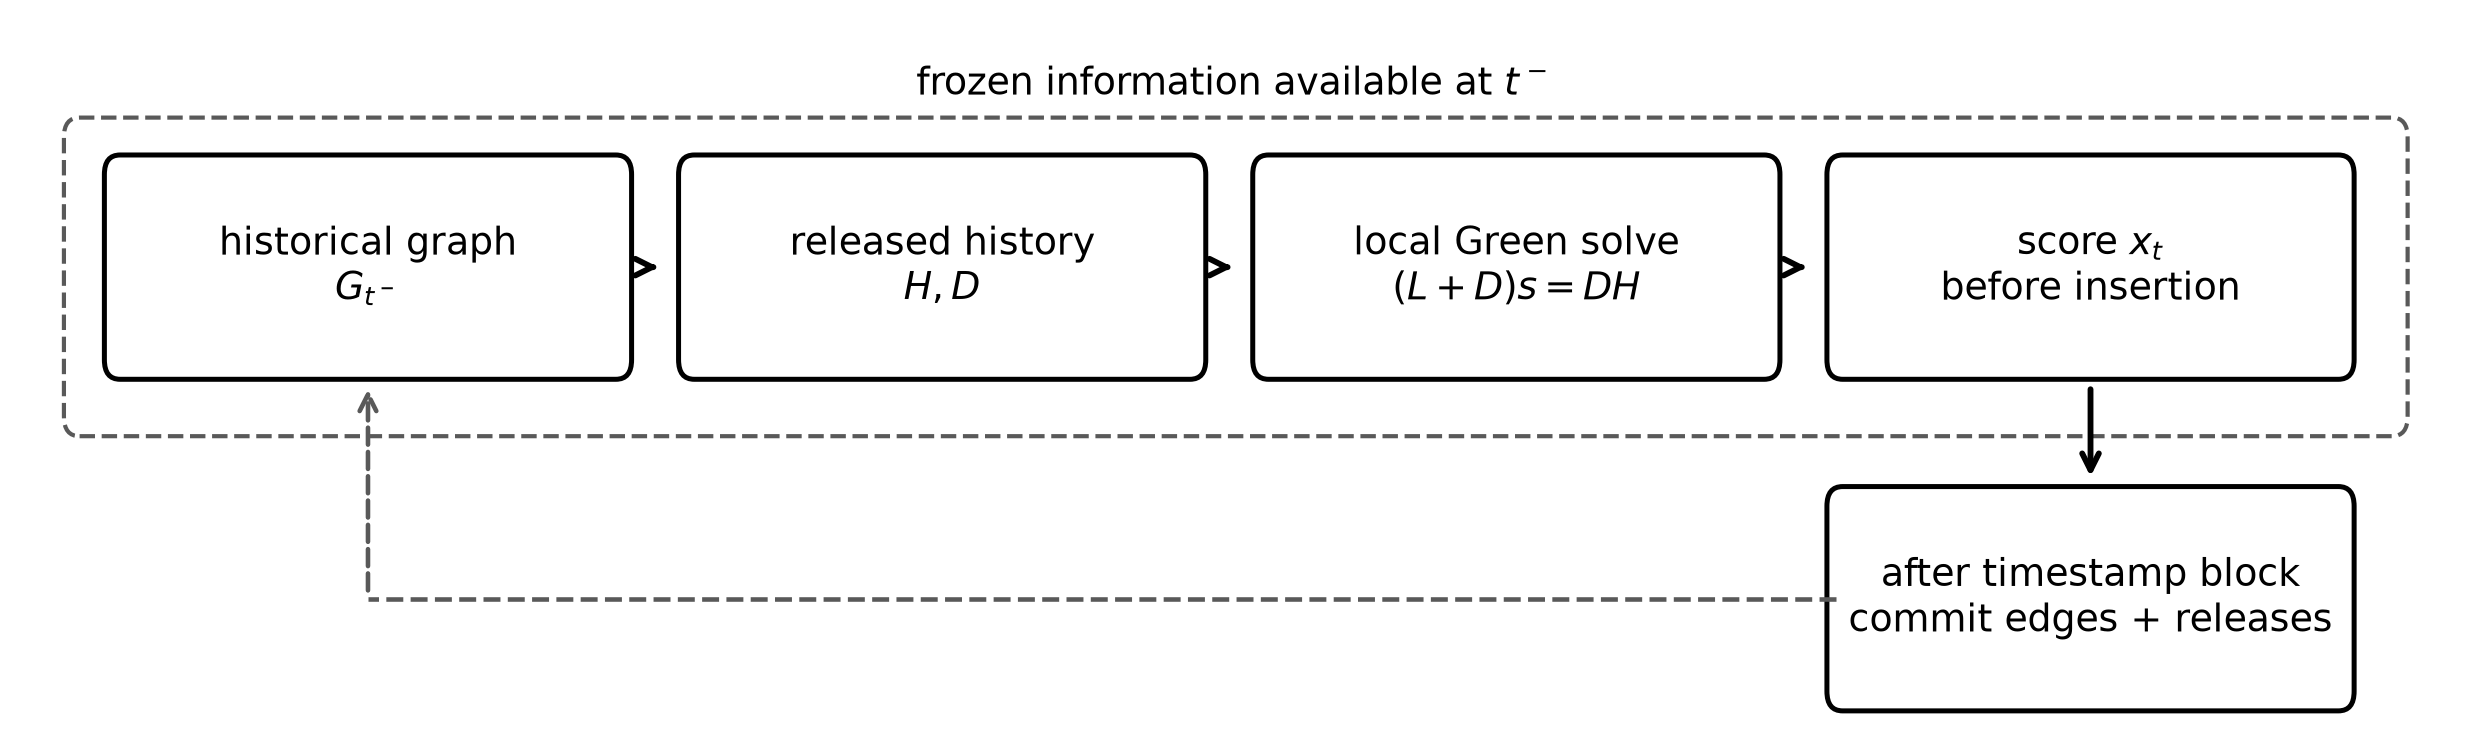
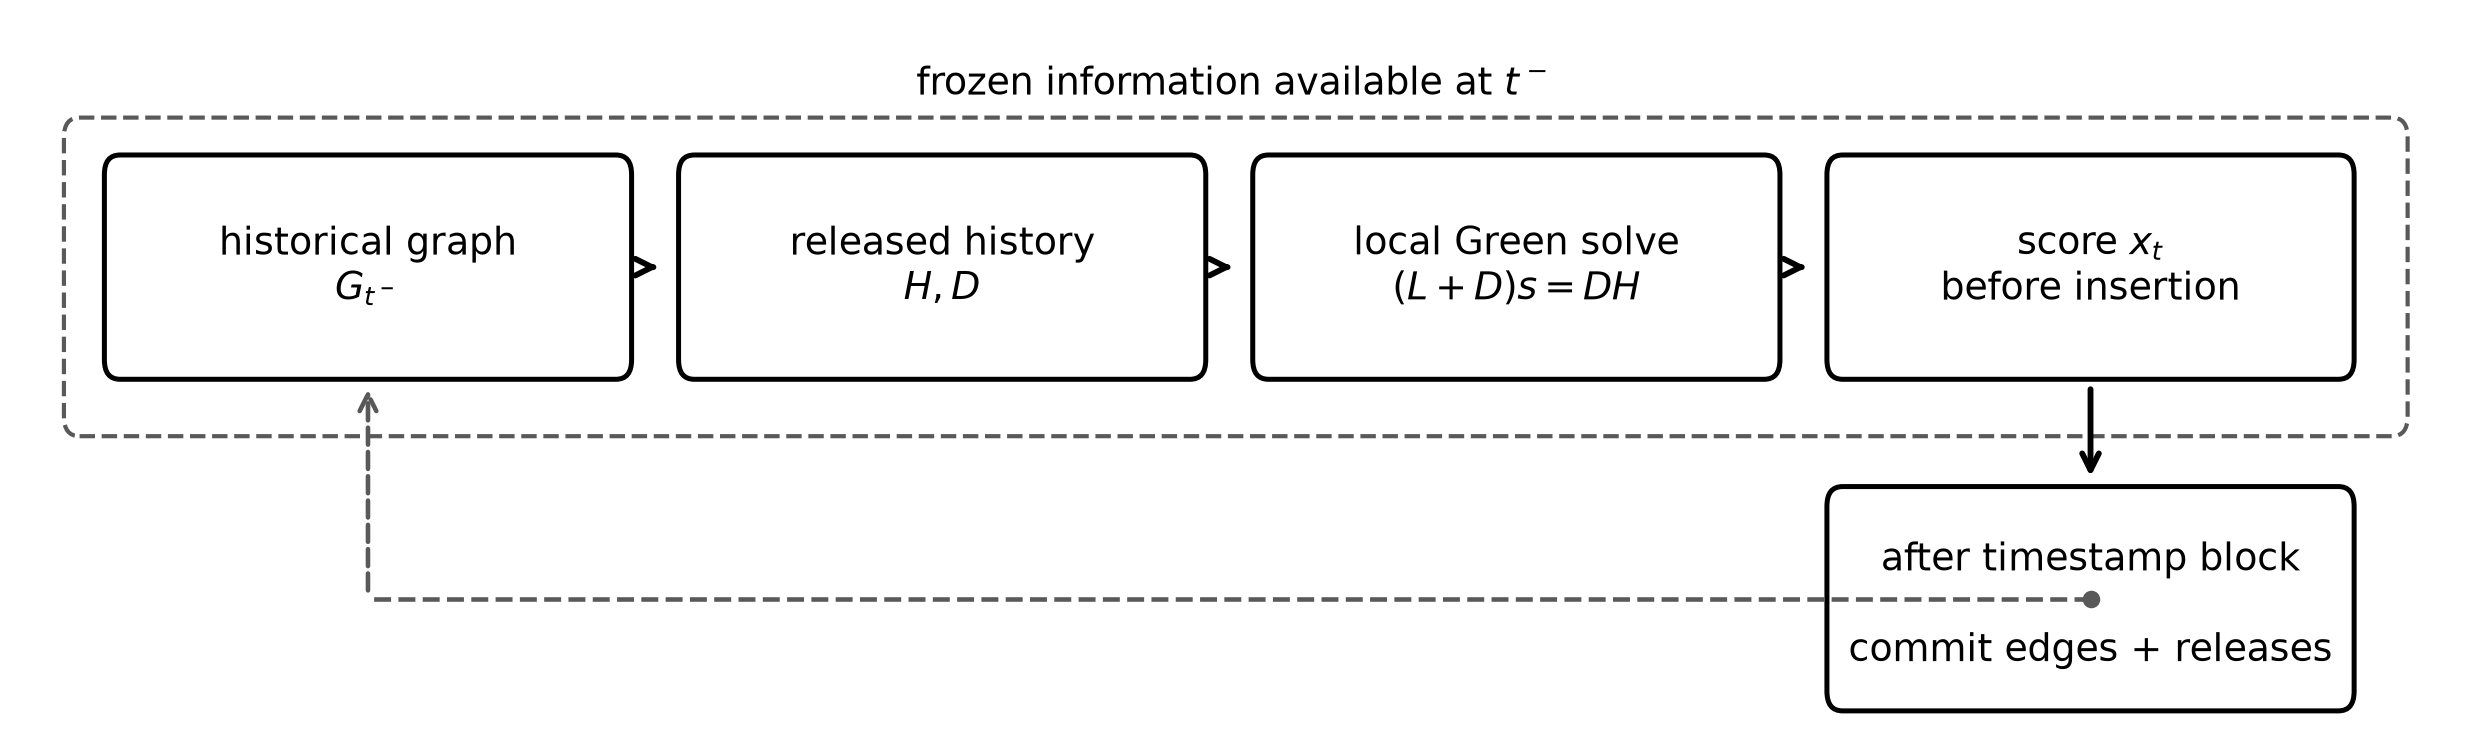
Clarify scheme feedback origin

Changed region(s): [[0.1556, 0.7063, 0.9337, 0.8905]]

diff --git a/scripts/plot_green_field_scheme.py b/scripts/plot_green_field_scheme.py
@@ -38,7 +38,19 @@ def make_scheme(output_dir: Path) -> tuple[Path, Path]:
     add_box(ax, (xs[1], y_top), "released history\n$H, D$", width, height)
     add_box(ax, (xs[2], y_top), "local Green solve\n$(L+D)s=DH$", width, height)
     add_box(ax, (xs[3], y_top), "score $x_t$\nbefore insertion", width, height)
-    add_box(ax, (xs[3], y_commit), "after timestamp block\ncommit edges + releases", width, height)
+    commit_box = FancyBboxPatch(
+        (xs[3], y_commit),
+        width,
+        height,
+        boxstyle="round,pad=0.035,rounding_size=0.06",
+        linewidth=1.2,
+        edgecolor="black",
+        facecolor="white",
+    )
+    ax.add_patch(commit_box)
+    commit_text_x = xs[3] + width / 2
+    ax.text(commit_text_x, y_commit + height * 0.69, "after timestamp block", ha="center", va="center", fontsize=9)
+    ax.text(commit_text_x, y_commit + height * 0.24, "commit edges + releases", ha="center", va="center", fontsize=9)
 
     for i in range(3):
         ax.annotate(
@@ -55,8 +67,9 @@ def make_scheme(output_dir: Path) -> tuple[Path, Path]:
     )
     feedback_y = y_commit + height / 2
     past_center = xs[0] + width / 2
-    commit_left = xs[3]
-    ax.plot([commit_left, past_center], [feedback_y, feedback_y], color="0.35", linestyle="--", linewidth=1.1)
+    commit_center = xs[3] + width / 2
+    ax.plot([commit_center, past_center], [feedback_y, feedback_y], color="0.35", linestyle="--", linewidth=1.1)
+    ax.plot(commit_center, feedback_y, marker="o", markersize=3.2, color="0.35")
     ax.annotate(
         "",
         xy=(past_center, y_top - 0.04),
